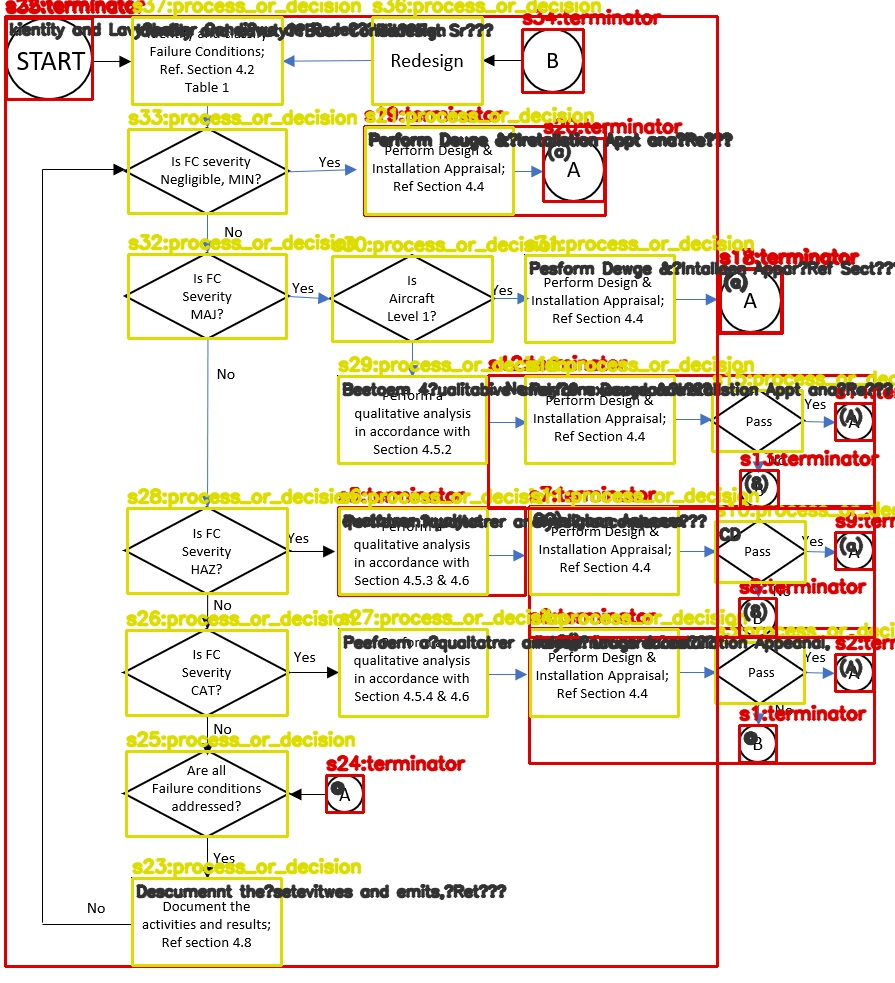
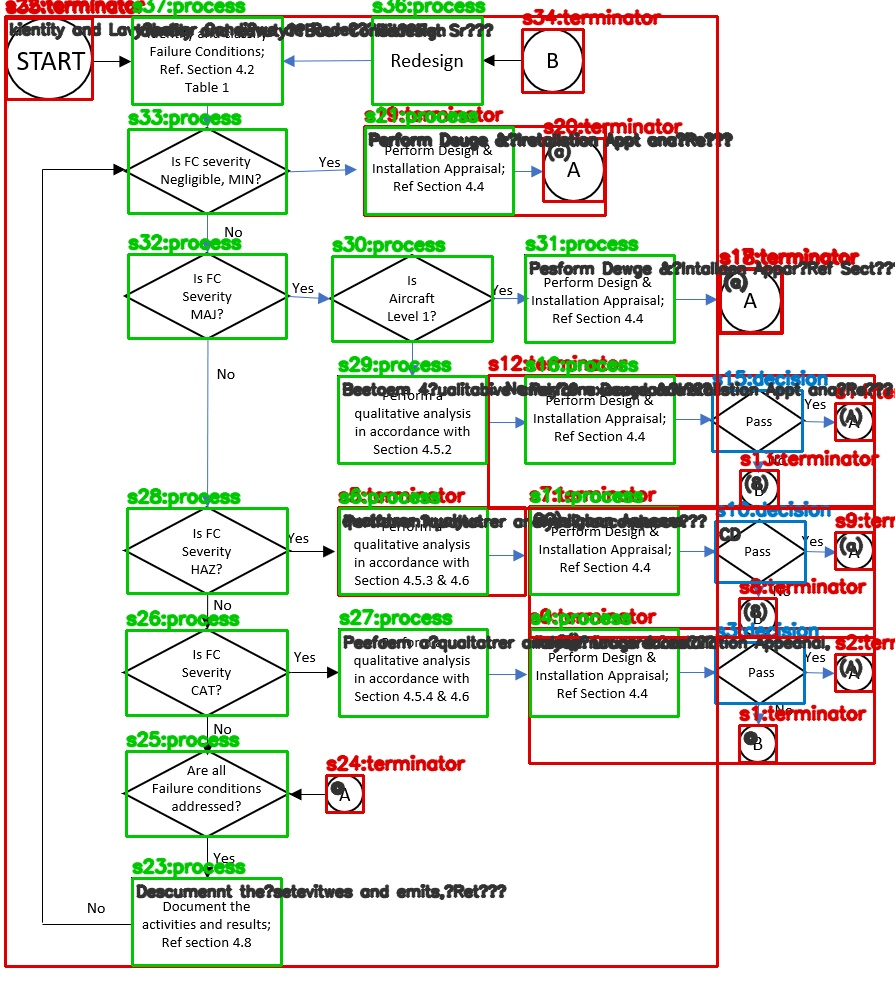
Working again

Changed region(s): [[0.1207, 0.0, 1.0, 1.0]]

diff --git a/flowforge/geometry/raster_detector.py b/flowforge/geometry/raster_detector.py
@@ -3,6 +3,7 @@
 from typing import Optional, List, Dict, Any
 from .primitives import ShapePrimitive, ConnectorPrimitive, GeometryOutput
 import os
+import numpy as np
 
 
 def detect_geometry(image_path: str, params: Optional[Dict[str, Any]] = None) -> GeometryOutput:
@@ -17,7 +18,19 @@ def detect_geometry(image_path: str, params: Optional[Dict[str, Any]] = None) ->
 
     try:
         import cv2
-        import numpy as np
+
+        def _is_diamond(contour: np.ndarray) -> bool:
+            rect = cv2.minAreaRect(contour)
+            width, height = rect[1]
+            if width <= 0 or height <= 0:
+                return False
+            ratio = min(width, height) / max(width, height)
+            if ratio < 0.6:
+                return False
+            angle = abs(rect[2])
+            if angle > 90:
+                angle = 180 - angle
+            return abs(angle - 45) <= 15
 
         img = cv2.imread(image_path)
         if img is None:
@@ -60,7 +73,9 @@ def detect_geometry(image_path: str, params: Optional[Dict[str, Any]] = None) ->
             n = len(approx)
 
             if n == 4:
-                shape_type = "process_or_decision"
+                shape_type = "process"
+                if _is_diamond(cnt):
+                    shape_type = "decision"
             elif n >= 6:
                 shape_type = "terminator"
             else:

diff --git a/README.md b/README.md
@@ -83,3 +83,27 @@ License
 
 This repository does not yet include a license file. Add one before publishing.
 
+Docling integration
+-------------------
+
+Docling-style pipelines already ingest PDFs, extract image blocks, and tag them as `diagram`. Plug into
+that step with:
+
+```python
+from flowforge import extract_flowchart
+from docling.document import Document
+
+doc = Document.from_file("manual.pdf")
+
+flowcharts = [
+    extract_flowchart(block.local_path)
+    for block in doc.blocks
+    if block.type == "image" and block.semantic_type == "diagram"
+]
+```
+
+`extract_flowchart()` returns geometry metadata, FlowGraph JSON, and Mermaid markup so the downstream ETL/RAG
+layer receives structured text, executable logic, and renderable diagrams without redoing OCR, shape detection,
+or LLM orchestration.
+
+Wrap that loop in a helper such as `flowforge.docling.extract_all_flowcharts()` if you want a single-call convenience method.
